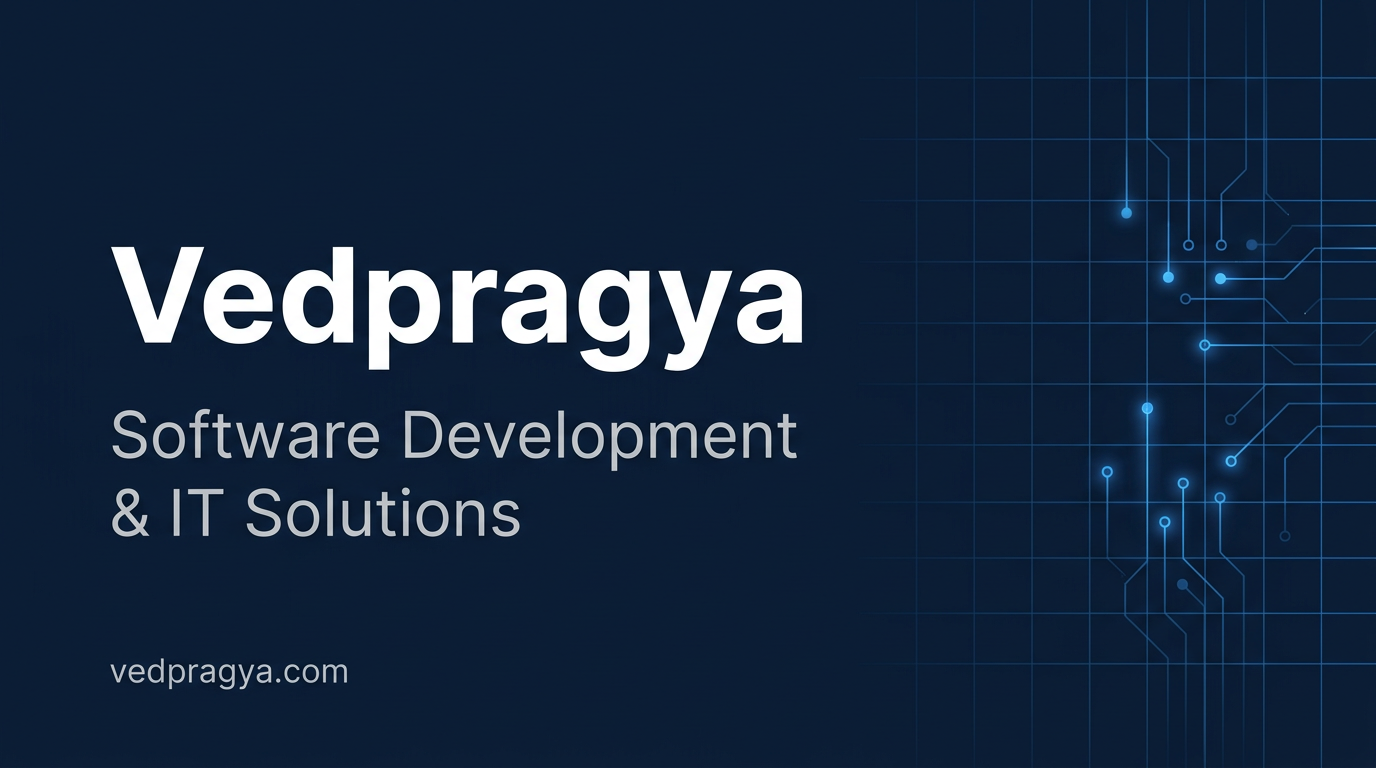
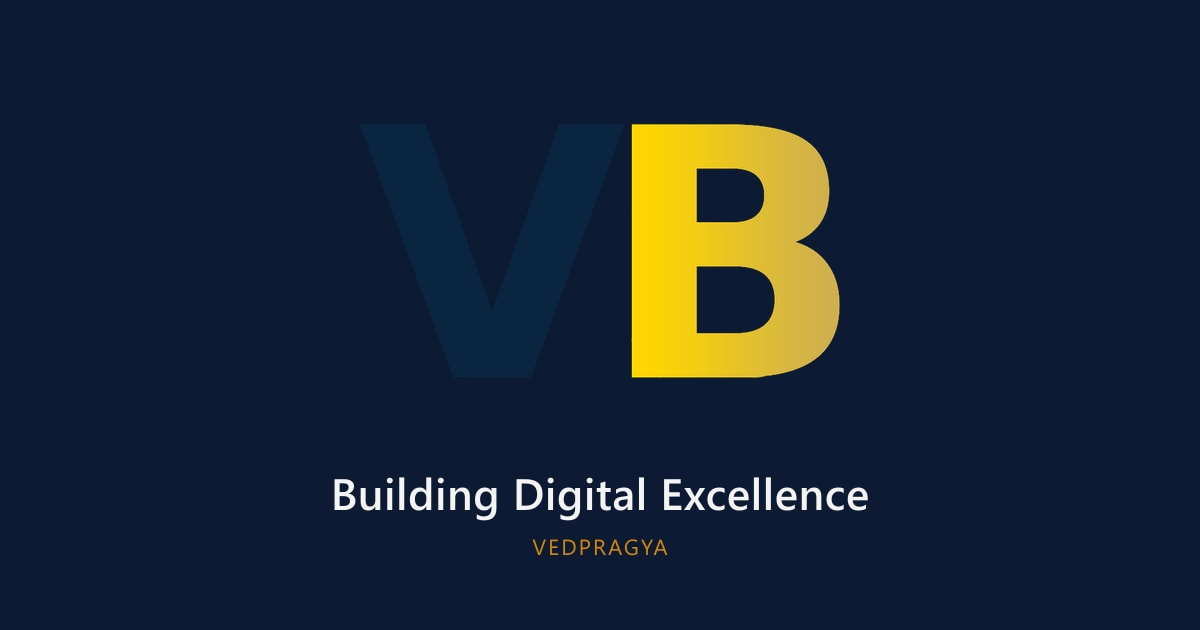
feat(seo): regenerate og-default.jpg as 1200x630 JPEG

diff --git a/scripts/generate-og-default.js b/scripts/generate-og-default.js
@@ -1,0 +1,88 @@
+#!/usr/bin/env node
+/**
+ * Generates public/og-default.jpg — a 1200x630 landscape OG image.
+ *
+ * Uses the company brand colors (vp-brand-deep navy background, vp-accent
+ * orange for tagline) and the existing public/logo.png. Run this after any
+ * brand refresh to keep OG images in sync.
+ */
+const path = require('node:path');
+const sharp = require('sharp');
+
+const BRAND_DEEP = '#0C1B33';
+const BRAND_ACCENT = '#D4870A';
+const TEXT_LIGHT = '#F4F4F5';
+const WIDTH = 1200;
+const HEIGHT = 630;
+
+const PUBLIC_DIR = path.join(__dirname, '..', 'public');
+const LOGO_PATH = path.join(PUBLIC_DIR, 'logo.png');
+const OUTPUT_PATH = path.join(PUBLIC_DIR, 'og-default.jpg');
+
+async function main() {
+  // 1. Build the background SVG: navy fill, centered logo, tagline.
+  //    Using SVG-as-source keeps text crisp at any resolution.
+  const svgBackground = `
+    <svg width="${WIDTH}" height="${HEIGHT}" xmlns="http://www.w3.org/2000/svg">
+      <rect width="100%" height="100%" fill="${BRAND_DEEP}"/>
+      <text
+        x="600"
+        y="510"
+        font-family="-apple-system, system-ui, 'Segoe UI', sans-serif"
+        font-size="44"
+        font-weight="600"
+        fill="${TEXT_LIGHT}"
+        text-anchor="middle"
+        letter-spacing="0.5"
+      >Building Digital Excellence</text>
+      <text
+        x="600"
+        y="555"
+        font-family="-apple-system, system-ui, 'Segoe UI', sans-serif"
+        font-size="22"
+        font-weight="400"
+        fill="${BRAND_ACCENT}"
+        text-anchor="middle"
+        letter-spacing="2"
+      >VEDPRAGYA</text>
+    </svg>
+  `;
+
+  // 2. Compose: SVG background + logo centered.
+  //    Logo is 770x459 — fit within ~480px width to leave breathing room.
+  const logoWidth = 480;
+  const logoHeight = Math.round(459 * (logoWidth / 770));
+  const logoBuffer = await sharp(LOGO_PATH)
+    .resize({ width: logoWidth, withoutEnlargement: true })
+    .toBuffer();
+
+  let pipeline = sharp(Buffer.from(svgBackground)).composite([
+    {
+      input: logoBuffer,
+      // Center horizontally, position vertically so logo + tagline stack nicely.
+      top: Math.round((HEIGHT - logoHeight - 160) / 2),
+      left: Math.round((WIDTH - logoWidth) / 2),
+    },
+  ]);
+
+  // Try mozjpeg first (smaller files), fall back to standard JPEG if libvips
+  // wasn't built with mozjpeg support.
+  try {
+    await pipeline
+      .clone()
+      .jpeg({ quality: 90, mozjpeg: true })
+      .toFile(OUTPUT_PATH);
+  } catch (err) {
+    console.warn(`[generate-og-default] mozjpeg unavailable (${err.message}); using default JPEG encoder`);
+    await pipeline
+      .jpeg({ quality: 90 })
+      .toFile(OUTPUT_PATH);
+  }
+
+  console.log(`[generate-og-default] wrote ${OUTPUT_PATH} (${WIDTH}x${HEIGHT} JPEG)`);
+}
+
+main().catch((err) => {
+  console.error(`[generate-og-default] FAILED: ${err.message}`);
+  process.exit(1);
+});